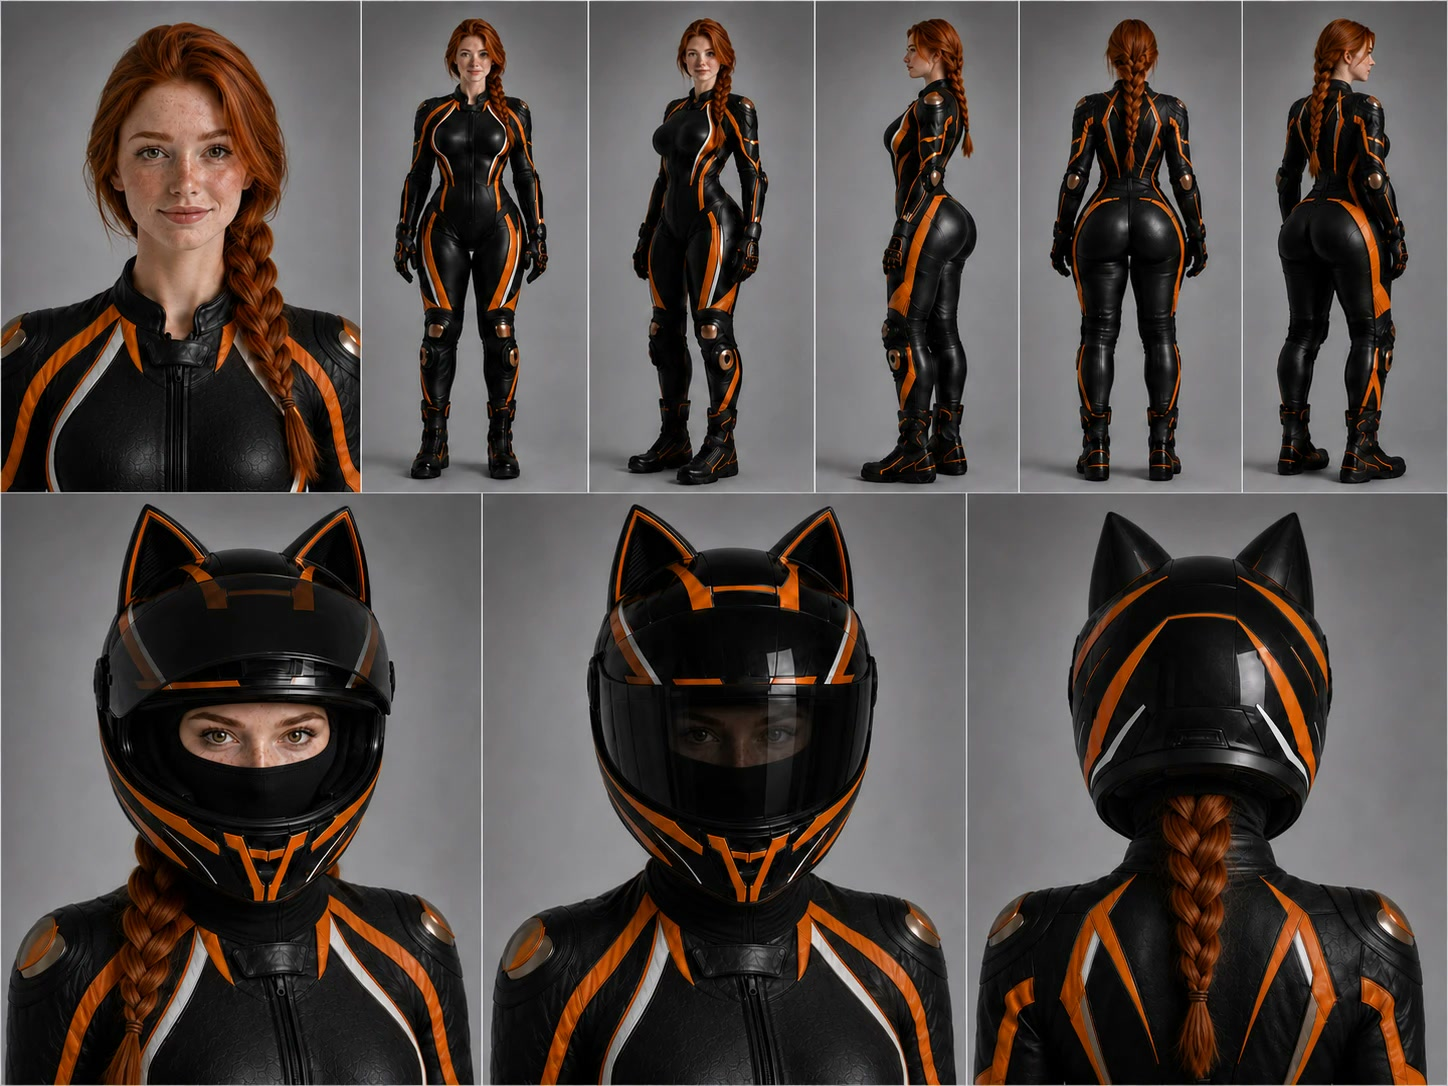
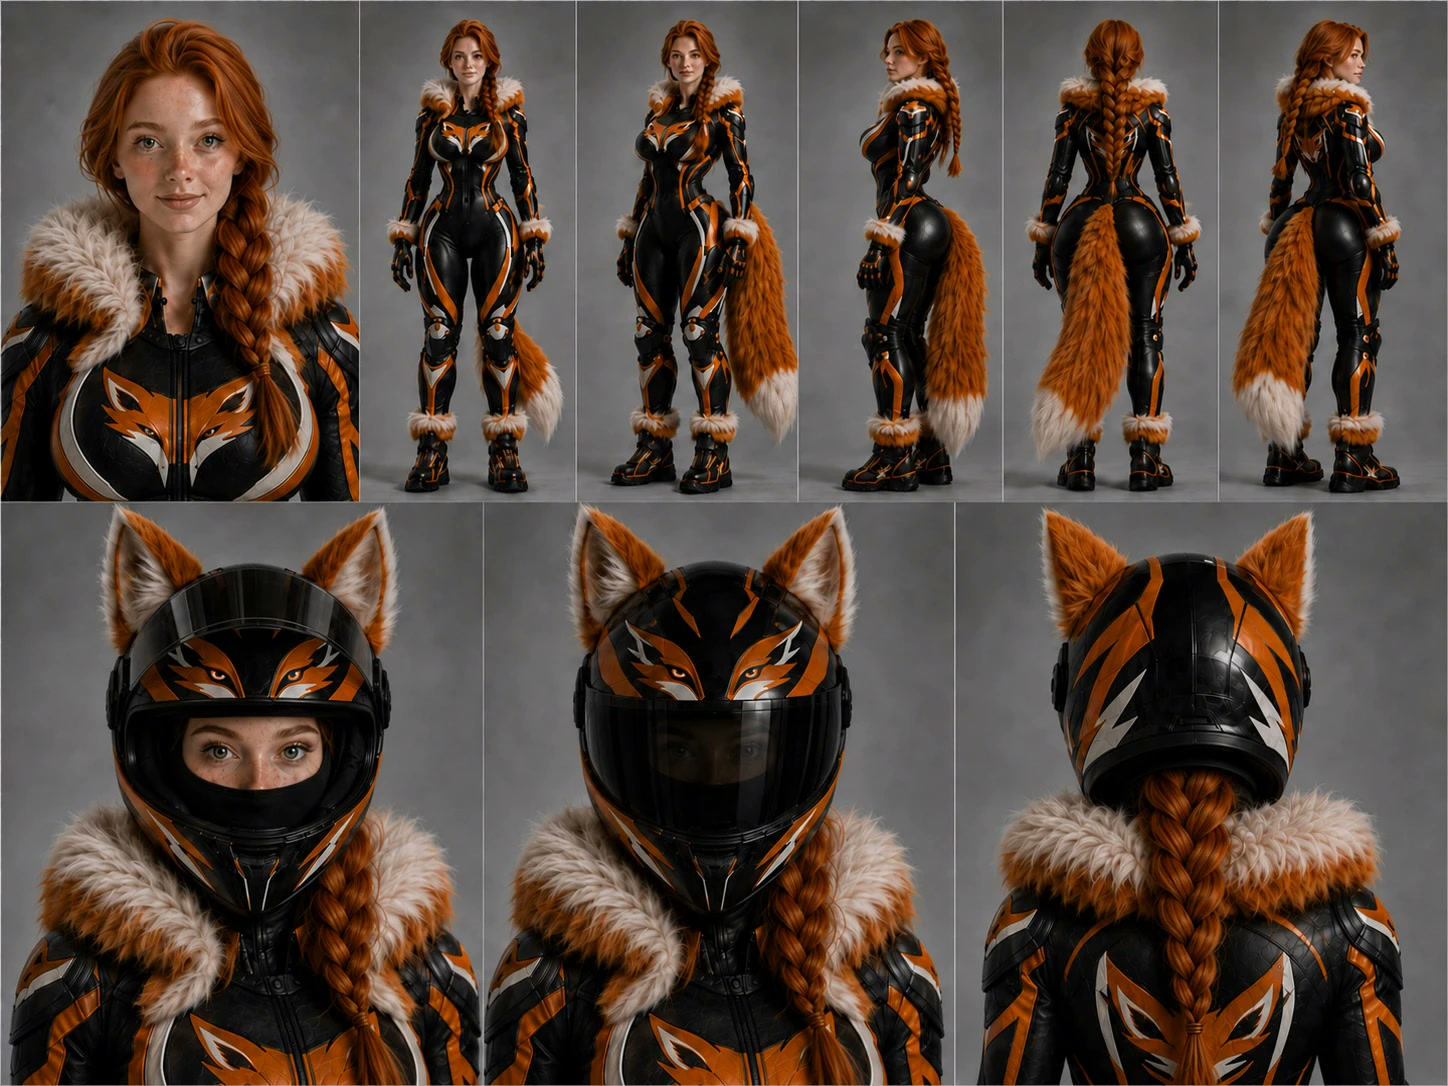
Пресеты: fox-образ MotoLola (3 варианта причёски), листы заменены, пул расширен
- Новые референс-листы: чёрно-оранжевый fox-костюм с меховым воротником, лисьим
  хвостом и шлемом с меховыми ушами; распущенные / одна коса / две косы (новый
  пресет motolola-twinbraids)
- Заметки пресетов описывают образ для доктрины: хвост и уши — часть образа,
  промты обязаны сохранять их на модели в кадре
- UI: сетка «Кто в кадре?» на 4 карточки (3 пресета + свои референсы)
- Тесты: 112 (манифест 3 пресетов, роуты)

diff --git a/server/src/presets.ts b/server/src/presets.ts
@@ -28,16 +28,20 @@ const BIKE_REF: PresetRefDef = {
   note: 'Kawasaki Ninja ZX-6R, оранжево-чёрный — референс-лист со всех ракурсов (бок/фронт/зад/3-четверти/сверху/кокпит). Использовать ТОЛЬКО если в исходнике есть мотоцикл; если мотоцикла в кадре нет — полностью игнорировать этот референс',
 };
 
+/** Общая часть описания fox-образа: хвост и уши — ЧАСТЬ ОБРАЗА, промты обязаны их сохранять. */
+const FOX =
+  'MotoLola в fox-образе — референс-лист со всех ракурсов: чёрно-оранжевый мотокостюм с белыми акцентами и лисьей мордой на груди, пышный меховой воротник, ПУШИСТЫЙ ЛИСИЙ ХВОСТ (часть образа — всегда сохранять на модели в кадре), меховые манжеты и опушка на ботинках; нижний ряд листа — она же в чёрном шлеме с МЕХОВЫМИ ЛИСЬИМИ УШАМИ и лисьим принтом';
+
 export const PRESETS: PresetDef[] = [
   {
     id: 'motolola-loose',
     title: 'MotoLola · распущенные',
-    hint: 'модель со всех ракурсов (волосы распущены); Kawasaki подставится, только если в кадре есть мотоцикл',
+    hint: 'fox-образ со всех ракурсов (волосы распущены); Kawasaki подставится, только если в кадре есть мотоцикл',
     refs: [
       {
         file: 'motolola-loose.jpg',
         role: 'model',
-        note: 'MotoLola — референс-лист со всех ракурсов: длинные РАСПУЩЕННЫЕ волнистые рыжие волосы; нижний ряд — она же в чёрно-оранжевом кат-ушастом шлеме (фронт/бок/спина, волосы распущены из-под шлема)',
+        note: `${FOX}; длинные РАСПУЩЕННЫЕ волнистые рыжие волосы`,
       },
       BIKE_REF,
     ],
@@ -45,12 +49,25 @@ export const PRESETS: PresetDef[] = [
   {
     id: 'motolola-braid',
     title: 'MotoLola · коса',
-    hint: 'модель со всех ракурсов (волосы в косе); Kawasaki подставится, только если в кадре есть мотоцикл',
+    hint: 'fox-образ со всех ракурсов (одна коса); Kawasaki подставится, только если в кадре есть мотоцикл',
     refs: [
       {
         file: 'motolola-braid.jpg',
         role: 'model',
-        note: 'MotoLola — референс-лист со всех ракурсов: рыжие волосы заплетены в ОДНУ ДЛИННУЮ КОСУ через плечо/на спине; нижний ряд — она же в чёрно-оранжевом кат-ушастом шлеме, коса видна из-под шлема',
+        note: `${FOX}; рыжие волосы заплетены в ОДНУ ДЛИННУЮ КОСУ через плечо`,
+      },
+      BIKE_REF,
+    ],
+  },
+  {
+    id: 'motolola-twinbraids',
+    title: 'MotoLola · две косы',
+    hint: 'fox-образ со всех ракурсов (две косы); Kawasaki подставится, только если в кадре есть мотоцикл',
+    refs: [
+      {
+        file: 'motolola-twinbraids.jpg',
+        role: 'model',
+        note: `${FOX}; рыжие волосы заплетены в ДВЕ ДЛИННЫЕ КОСЫ по бокам`,
       },
       BIKE_REF,
     ],

diff --git a/server/test/presets.test.ts b/server/test/presets.test.ts
@@ -58,7 +58,7 @@ function project(id = randomUUID()): string {
 
 describe('пресеты: манифест и применение', () => {
   it('манифест валиден: файлы существуют, модель первой, роли корректны', () => {
-    expect(PRESETS.length).toBe(2);
+    expect(PRESETS.length).toBe(3);
     for (const p of PRESETS) {
       expect(p.refs[0]!.role).toBe('model'); // нумерация: модель = ref 2 после старт-кадра
       expect(p.refs.some((r) => r.role === 'vehicle')).toBe(true);
@@ -106,7 +106,7 @@ describe('пресеты: роуты', () => {
     const list = await app.inject({ method: 'GET', url: '/api/presets' });
     expect(list.statusCode).toBe(200);
     const items = JSON.parse(list.body) as Array<{ id: string; thumb: string }>;
-    expect(items.map((i) => i.id).sort()).toEqual(['motolola-braid', 'motolola-loose']);
+    expect(items.map((i) => i.id).sort()).toEqual(['motolola-braid', 'motolola-loose', 'motolola-twinbraids']);
 
     const ok = await app.inject({ method: 'GET', url: `/${items[0]!.thumb}` });
     expect(ok.statusCode).toBe(200);

diff --git a/web/src/screens/SwapPanel.tsx b/web/src/screens/SwapPanel.tsx
@@ -169,7 +169,7 @@ export function SwapPanel({
               /* Чистый проект: пресеты одним нажатием или свои референсы */
               <div className="space-y-2">
                 <div className="text-sm font-semibold">Кто в кадре?</div>
-                <div className="grid sm:grid-cols-3 gap-2">
+                <div className="grid sm:grid-cols-2 lg:grid-cols-4 gap-2">
                   {presets.map((p) => (
                     <button
                       key={p.id}